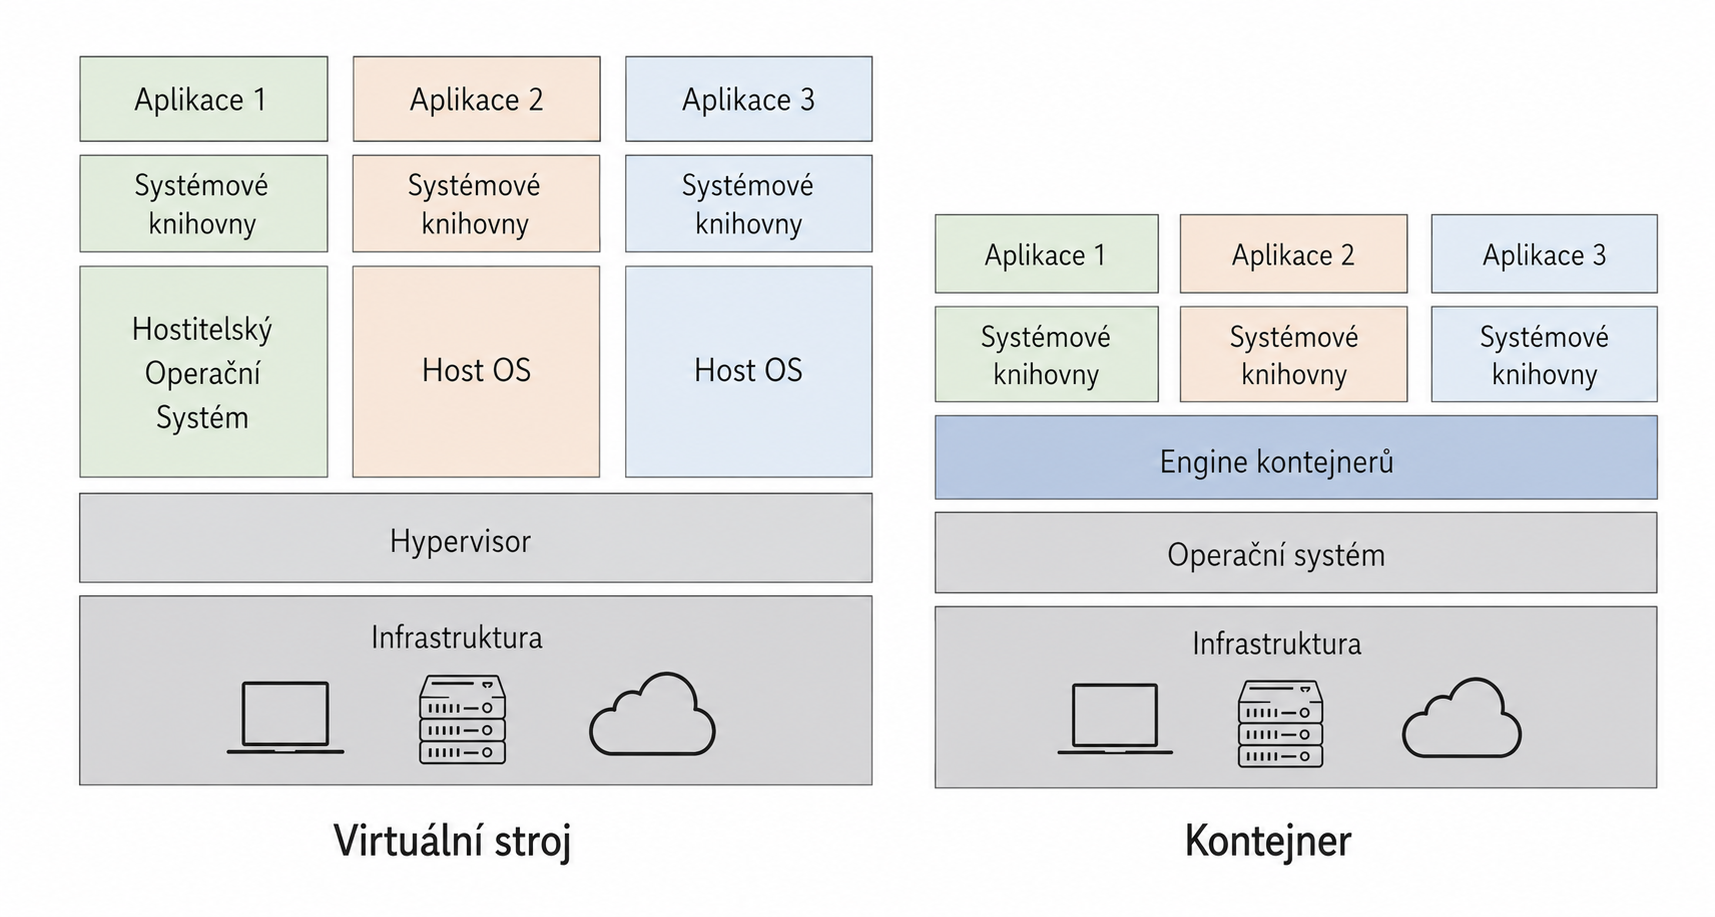
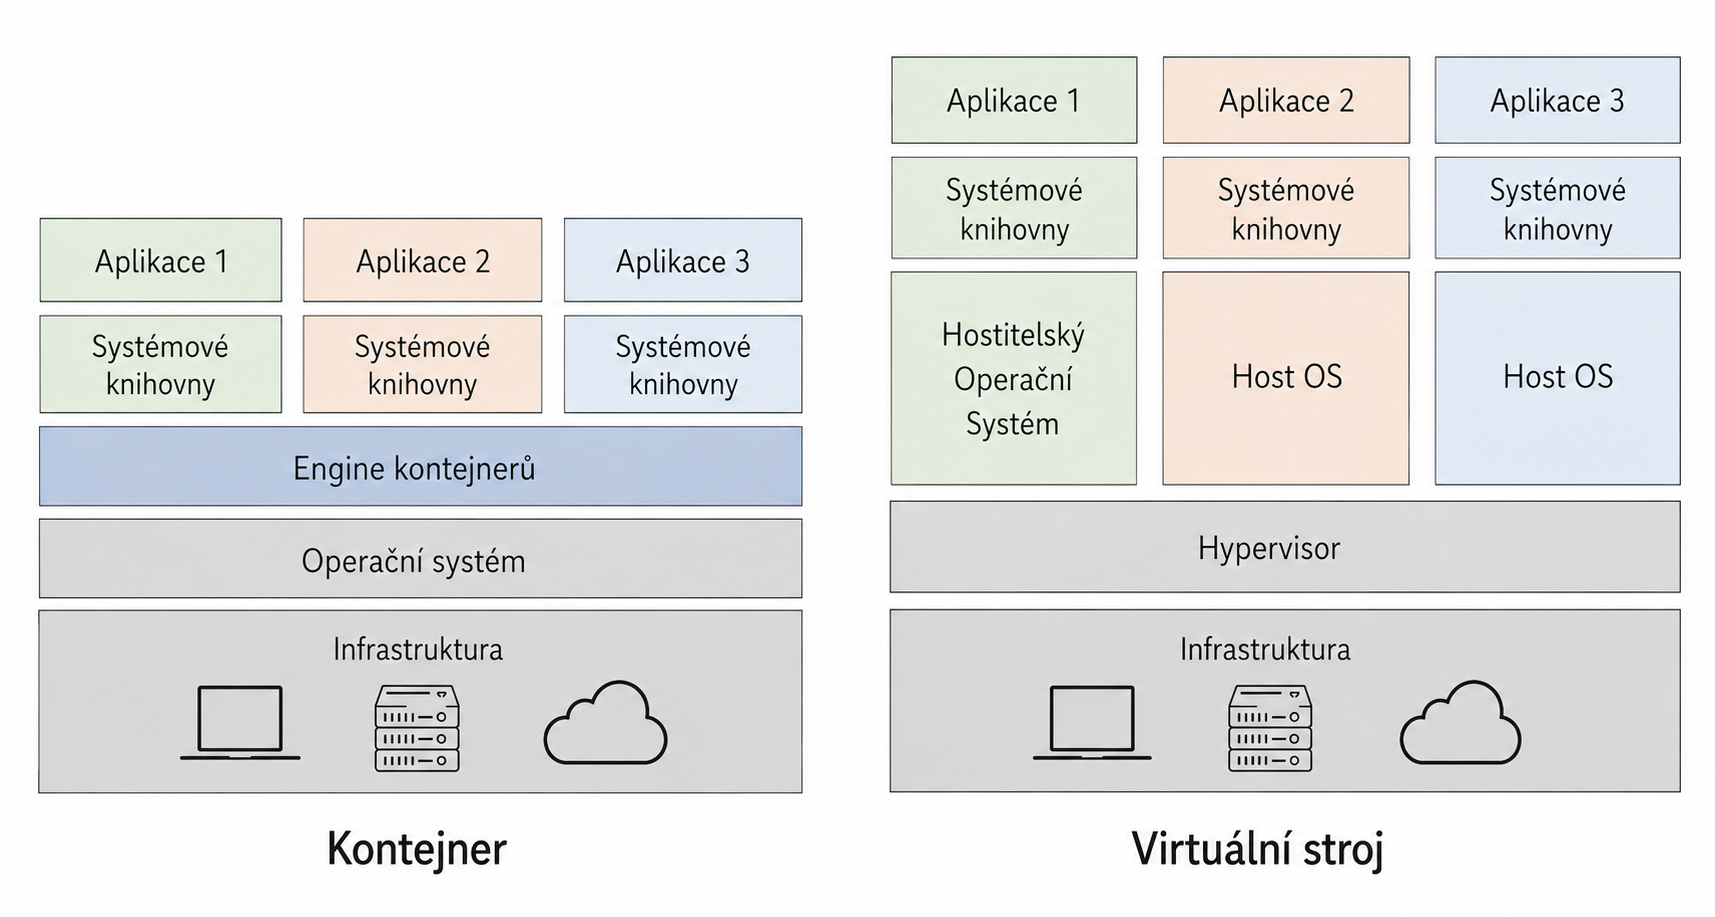
posledni kontrola

diff --git a/Thesis/chapters/vysledky_vyzkumu_a_diskuse.tex b/Thesis/chapters/vysledky_vyzkumu_a_diskuse.tex
@@ -1,4 +1,4 @@
-\chapter{Výsledky výzkumu a~diskuse}
+\chapter{Výsledky výzkumu a~diskuse}\label{vysledky}
 Tato kapitola prezentuje výsledky provedeného experimentálního vyhodnocení a~následně je interpretuje z~hlediska praktické použitelnosti jednotlivých databázových systémů. 
 
 Nejprve je popsán způsob zpracování a~agregace naměřených hodnot, poté jsou diskutovány výsledky výkonnostních testů, licenční omezení a~možnosti škálování jednotlivých řešení.
@@ -32,18 +32,18 @@ získává 100 bodů a~nejsložitější 1 bod.
 \caption{Instalační a~konfigurační náročnost databázových systémů}
 \label{tab:install-complexity}
 
-\begin{tabular}{l>{}c@{}}
+\begin{tabular}{l>{}cc@{}}
 \toprule
-\textbf{DBMS} & \textbf{Ansible úlohy} \\
+\textbf{DBMS} & \textbf{Ansible úlohy} & \textbf{Normalizované skore} \\
 \midrule
-ClickHouse           & 9  \\
-MongoDB              & 11 \\
-QuestDB              & 11 \\
-InfluxDB 3           & 13 \\
-MariaDB              & 22 \\
-MariaDB ColumnStore  & 22 \\
-TimescaleDB          & 28 \\
-Apache IoTDB         & 36 \\
+ClickHouse           & \best{9} & \best{100.00} \\
+MongoDB              & 11 & 92.67\\
+QuestDB              & 11 & 92.67\\
+InfluxDB 3           & 13 & 85.33\\
+MariaDB              & 22 & 52.33\\
+MariaDB ColumnStore  & 22 & 52.33\\
+TimescaleDB          & 28 & 30.33\\
+Apache IoTDB         & \worst{36} & \worst{1.00} \\
 \bottomrule
 \end{tabular}
 \end{table}
@@ -110,9 +110,9 @@ TimescaleDB & 71.71 & 57.57 & 71.71 & 71.71 & 68.17 \\
 InfluxDB 3 & 29.29 & \best{100.00} & 85.86 & 43.43 & 64.64 \\
 QuestDB & 43.43 & 43.43 & 57.57 & 85.86 & 57.57 \\
 MariaDB ColumnStore & 85.86 & 29.29 & 29.29 & 57.57 & 50.50 \\
-Apache IoTDB & 1.00 & 71.71 & 43.43 & 29.29 & 36.36 \\
+Apache IoTDB & \worst{1.00} & 71.71 & 43.43 & 29.29 & 36.36 \\
 MariaDB & 57.57 & 15.14 & 15.14 & 15.14 & 25.75 \\
-MongoDB & 15.14 & 1.00 & 1.00 & 1.00 & 4.54 \\
+MongoDB & 15.14 & \worst{1.00} & \worst{1.00} & \worst{1.00} & \worst{4.54} \\
 \bottomrule
 \end{tabular}
 \end{table}
@@ -127,7 +127,7 @@ Zajímavé je extrémní propadnutí MongoDB, které ve všech testech kromě
     \centering
     \includegraphics[width=0.7\textwidth]{images/small_aggregate.png}
     \caption{Medián doby trvání dotazu \texttt{aggregate} na profilu 
-             \texttt{small}.}
+             \texttt{small} (zdroj: Vlastní zpracování)}
     \label{fig:small_aggregate}
 \end{figure}
 
@@ -141,7 +141,7 @@ CPU a~paměti MongoDB na samotném začátku testu \texttt{aggregate}.
 \begin{figure}[H]
     \centering
     \includegraphics[width=0.9\textwidth]{images/mongodb_small_aggregate.png}
-    \caption{Začátek měření CPU a~RAM pro test \texttt{aggregate} u~MongoDB.}
+    \caption{Měření CPU a~RAM pro test \texttt{aggregate} u~MongoDB (zdroj: Vlastní zpracování)}
     \label{fig:mongodb_small_aggregate}
 \end{figure}
 
@@ -170,12 +170,12 @@ Následující tabulka prezentuje naměřenou propustnost při kontinuálním vk
 \midrule
 ClickHouse & 9634 & 9984 & \best{11225} & \best{14022} & \best{14034} & \best{13302} & \best{13887} & \best{13152} & \best{10517} & \best{\textbf{12195}} \\
 TimescaleDB & \best{11177} & \best{10969} & 10802 & 11452 & 11644 & 11472 & 11442 & 11785 & 9741 & \textbf{11165} \\
-MariaDB & 10016 & 9920 & 9764 & 9851 & 9993 & 9420 & 9765 & 9591 & -- & \textbf{8702} \\
+MariaDB & 10016 & 9920 & 9764 & 9851 & 9993 & 9420 & 9765 & 9591 & \worst{--} & \textbf{8702} \\
 MongoDB & 8409 & 8161 & 8033 & 9015 & 8684 & 8299 & 8571 & 8543 & 7550 & \textbf{8363} \\
 Apache IoTDB & 6343 & 5843 & 5535 & 8854 & 8031 & 7936 & 9155 & 7896 & 5718 & \textbf{7257} \\
-InfluxDB 3 & 6856 & 6816 & 6723 & 6891 & 6835 & 6897 & 6757 & 6656 & 5591 & \textbf{6669} \\
-QuestDB & 5925 & 5918 & 5847 & 7093 & 6548 & 5941 & 7310 & 5899 & 4423 & \textbf{6100} \\
-MariaDB ColumnStore & 1100 & 1062 & 1030 & 3277 & 3131 & 2764 & 7415 & 5744 & -- & \textbf{3190} \\
+InfluxDB 3 & 6856 & 6816 & 6723 & 6891 & 6835 & 6897 & \worst{6757} & 6656 & 5591 & \textbf{6669} \\
+QuestDB & 5925 & 5918 & 5847 & 7093 & 6548 & 5941 & 7310 & 5899 &  4423 & \textbf{6100} \\
+MariaDB ColumnStore & \worst{1100} & \worst{1062} & \worst{1030} & \worst{3277} & \worst{3131} & \worst{2764} & 7415 & \worst{5744} & \worst{--} & \worst{\textbf{3190}} \\
 \bottomrule
 \end{tabular}}
 \end{table}
@@ -209,9 +209,9 @@ TimescaleDB & 71.71 & 43.43 & 71.71 & 71.71 & \textbf{64.64} \\
 InfluxDB 3 & 29.29 & \best{100.00} & 85.86 & 43.43 & \textbf{64.64} \\
 QuestDB & 43.43 & 57.57 & 43.43 & 85.86 & \textbf{57.57} \\
 MariaDB ColumnStore & 85.86 & 29.29 & 29.29 & 57.57 & \textbf{50.50} \\
-Apache IoTDB & 1.00 & 71.71 & 57.57 & 29.29 & \textbf{39.89} \\
+Apache IoTDB & \worst{1.00} & 71.71 & 57.57 & 29.29 & \textbf{39.89} \\
 MariaDB & 57.57 & 15.14 & 15.14 & 15.14 & \textbf{25.75} \\
-MongoDB & 15.14 & 1.00 & 1.00 & 1.00 & \textbf{4.54} \\
+MongoDB & 15.14 & \worst{1.00} & \worst{1.00} & \worst{1.00} & \worst{\textbf{4.54}} \\
 \bottomrule
 \end{tabular}
 \end{table}
@@ -226,7 +226,7 @@ Je 3$\times$ pomalejší než druhý nejhorší systém v~tomto typu testu, Mong
     \centering
     \includegraphics[width=0.9\textwidth]{images/medium_insert.png}
     \caption{Medián doby trvání dotazu \texttt{insert} na profilu 
-             \texttt{medium}.}
+             \texttt{medium} (zdroj: Vlastní zpracování)}
     \label{fig:medium_insert}
 \end{figure}
 
@@ -244,7 +244,7 @@ Zelená křivka reprezentuje vytížení procesoru, žlutá využití operační
     \centering
     \includegraphics[width=1\textwidth]{images/iotdb-medium-cpu.png}
     \caption{Vytížení CPU a~paměti Apache IoTDB během testu 
-             \texttt{insert} na profilu \texttt{medium}.}
+             \texttt{insert} na profilu \texttt{medium} (zdroj: Vlastní zpracování)}
     \label{fig:iotdb-medium-cpu}
 \end{figure}
 
@@ -280,7 +280,7 @@ MongoDB & 16187 & 15809 & 15596 & 17284 & 16972 & 16627 & 16888 & 16569 & 16362 
 Apache IoTDB & 13513 & 12267 & 11785 & 18031 & 17280 & 16084 & 18164 & 17770 & 15494 & \textbf{15599} \\
 QuestDB & 11706 & 11972 & 11770 & 14805 & 14666 & 14158 & 16285 & 15450 & 14577 & \textbf{13932} \\
 InfluxDB 3 & 13066 & 12899 & 13070 & 13243 & 12942 & 13090 & 12852 & 12493 & 12828 & \textbf{12943} \\
-MariaDB ColumnStore & 1210 & 1288 & 1174 & 3613 & 3588 & 3423 & 10435 & 9414 & 8163 & \textbf{4701} \\
+MariaDB ColumnStore & \worst{1210} & \worst{1288} & \worst{1174} & \worst{3613} & \worst{3588} & \worst{3423} & \worst{10435} & \worst{9414} & \worst{8163} & \worst{\textbf{4701}} \\
 \bottomrule
 \end{tabular}}
 \end{table}
@@ -311,9 +311,9 @@ QuestDB & 43.43 & 57.57 & 57.57 & 85.86 & \textbf{61.11} \\
 InfluxDB 3 & 29.29 & \best{100.00} & 85.86 & 29.29 & \textbf{61.11} \\
 TimescaleDB & 71.71 & 43.43 & 43.43 & 71.71 & \textbf{57.57} \\
 MariaDB ColumnStore & 85.86 & 29.29 & 29.29 & 57.57 & \textbf{50.50} \\
-Apache IoTDB & 1.00 & 71.71 & 71.71 & 43.43 & \textbf{46.96} \\
+Apache IoTDB & \worst{1.00} & 71.71 & 71.71 & 43.43 & \textbf{46.96} \\
 MariaDB & 57.57 & 15.14 & 15.14 & 15.14 & \textbf{25.75} \\
-MongoDB & 15.14 & 1.00 & 1.00 & 1.00 & \textbf{4.54} \\
+MongoDB & 15.14 & \worst{1.00} & \worst{1.00} & \worst{1.00} & \worst{\textbf{4.54}} \\
 \bottomrule
 \end{tabular}
 \end{table}
@@ -348,7 +348,7 @@ Apache IoTDB & 17597 & 27147 & 25885 & 21346 & 34807 & 33635 & 21776 & 36187 & 3
 MongoDB & 16856 & 30901 & 30401 & 17849 & 31529 & 31780 & 17467 & 31090 & 31254 & \textbf{26570} \\
 QuestDB & 22258 & 27852 & 27150 & 21400 & 29497 & 28972 & 19504 & 31296 & 30519 & \textbf{26494} \\
 InfluxDB 3 & 13617 & 24324 & 24248 & 13454 & 24479 & 24319 & 13257 & 23968 & 23681 & \textbf{20594} \\
-MariaDB ColumnStore & 1329 & 1372 & 1333 & 3626 & 3619 & 3624 & 11789 & 11844 & 10611 & \textbf{5461} \\
+MariaDB ColumnStore & \worst{1329} & \worst{1372} & \worst{1333} & \worst{3626} & \worst{3619} & \worst{3624} & \worst{11789} & \worst{11844} & \worst{10611} & \worst{\textbf{5461}} \\
 \bottomrule
 \end{tabular}}
 \end{table}
@@ -428,7 +428,7 @@ InfluxDB 3           & 21400  & 32850  & 32750  & 0,7$\times$ \\
 QuestDB              & 12760  & 14060  & 14250  & 0,9$\times$ \\
 MariaDB              & 6975   & 9100   & 9200   & 0,8$\times$ \\
 MariaDB ColumnStore  & 5370   & 3610   & 2630   & \best{2,0$\times$} \\
-Apache IoTDB         & 108210 & 177830 & 182090 & 0,6$\times$ \\
+Apache IoTDB         & 108210 & 177830 & 182090 & \worst{0,6$\times$} \\
 MongoDB              & 71940  & 56600  & 43320  & 1,7$\times$ \\
 \bottomrule
 \end{tabular}}
@@ -450,7 +450,7 @@ TimescaleDB          & 48,4  & 50,0  & 50,0  & 1,0$\times$ \\
 InfluxDB 3           & 29,3  & 20,0  & 20,0  & 1,5$\times$ \\
 QuestDB              & 60,0  & 50,0  & 50,0  & 1,2$\times$ \\
 MariaDB              & 390,0 & 240,0 & 240,0 & \best{1,6$\times$} \\
-MariaDB ColumnStore  & 106,9 & 130,0 & 140,0 & 0,8$\times$ \\
+MariaDB ColumnStore  & 106,9 & 130,0 & 140,0 & \worst{0,8$\times$} \\
 Apache IoTDB         & 44,0  & 43,0  & 40,0  & 1,1$\times$ \\
 MongoDB              & 991,3 & 950,0 & 910,0 & 1,1$\times$ \\
 \bottomrule
@@ -473,7 +473,7 @@ TimescaleDB          & 48,6  & 50,0  & 50,0  & 1,0$\times$ \\
 InfluxDB 3           & 48,4  & 40,0  & 40,0  & 1,2$\times$ \\
 QuestDB              & 58,6  & 60,0  & 50,0  & 1,2$\times$ \\
 MariaDB              & 413,8 & 270,0 & 270,0 & \best{1,5$\times$} \\
-MariaDB ColumnStore  & 78,5  & 90,0  & 90,0  & 0,9$\times$ \\
+MariaDB ColumnStore  & 78,5  & 90,0  & 90,0  & \worst{0,9$\times$} \\
 Apache IoTDB         & 60,2  & 52,0  & 44,0  & 1,4$\times$ \\
 MongoDB              & 869,0 & 880,0 & 820,0 & 1,1$\times$ \\
 \bottomrule
@@ -496,7 +496,7 @@ TimescaleDB          & 44,0  & 50,0  & 50,0  & 0,9$\times$ \\
 InfluxDB 3           & 156,0 & 130,0 & 140,0 & 1,1$\times$ \\
 QuestDB              & 38,8  & 40,0  & 40,0  & 1,0$\times$ \\
 MariaDB              & 411,8 & 270,0 & 280,0 & \best{1,5$\times$} \\
-MariaDB ColumnStore  & 77,0  & 90,0  & 100,0 & 0,8$\times$ \\
+MariaDB ColumnStore  & 77,0  & 90,0  & 100,0 & \worst{0,8$\times$} \\
 Apache IoTDB         & 200,3 & 165,0 & 139,0 & 1,4$\times$ \\
 MongoDB              & 1033,7& 930,0 & 930,0 & 1,1$\times$ \\
 \bottomrule
@@ -554,7 +554,7 @@ TimescaleDB          & +102,7\,\% & +65,8\,\%  & +236,0\,\% \\
 InfluxDB 3           & +94,1\,\%  & +59,1\,\%  & +208,8\,\% \\
 QuestDB              & +128,4\,\% & +90,2\,\%  & \best{+334,3\,\%} \\
 MariaDB              & +113,6\,\% & +58,6\,\%  & +238,8\,\% \\
-MariaDB ColumnStore  & +47,4\,\%  & +16,2\,\%  & +71,2\,\%  \\
+MariaDB ColumnStore  & +47,4\,\%  & +16,2\,\%  & \worst{+71,2\,\%}  \\
 Apache IoTDB         & +115,0\,\% & +80,4\,\%  & +287,7\,\% \\
 MongoDB              & +97,0\,\%  & +61,3\,\%  & +217,7\,\% \\
 \bottomrule
@@ -598,9 +598,9 @@ TimescaleDB          & 63,46 & 23\,772 & 30,33 & Apache 2.0 & pouze čtecí repl
 InfluxDB 3           & 63,46 & 13\,402 & 85,33 & Apache 2.0 / MIT & pouze Enterprise \\
 QuestDB              & 58,75 & 15\,509 & 92,67 & Apache 2.0 (OSS) & pouze Enterprise \\
 MariaDB              & 25,75 & 18\,924 & 52,33 & GPLv2 & replikace / Galera Cluster \\
-MariaDB ColumnStore  & 50,50 & 4\,451 & 52,33 & GPLv2 & nativní \\
-Apache IoTDB         & 41,07 & 16\,997 & 1,00 & Apache 2.0 & nativní \\
-MongoDB              & 4,54 & 17\,137 & 92,67 & SSPL & nativní \\
+MariaDB ColumnStore  & 50,50 & \worst{4\,451} & 52,33 & GPLv2 & nativní \\
+Apache IoTDB         & 41,07 & 16\,997 & \worst{1,00} & Apache 2.0 & nativní \\
+MongoDB              & \worst{4,54} & 17\,137 & 92,67 & SSPL & nativní \\
 \bottomrule
 \end{tabular}}
 \end{table}

diff --git a/Thesis/chapters/prakticka_cast.tex b/Thesis/chapters/prakticka_cast.tex
@@ -1,4 +1,4 @@
-\chapter{Praktická část}
+\chapter{Praktická část}\label{practical}
 
 \section{Popis dat}\label{sec:popisdat}
 
@@ -6,8 +6,8 @@ Poskytovatelem dat je Datové centrum Ústeckého kraje (DCÚK), které spravuje
 Jedná se o~záznamy ze systému pro sledování pohybu vozidel správy a~údržby silnic. 
 
 Samotný dataset má velikost přibližně 650 MB a~obsahuje zhruba 600 tisíc záznamů. Data jsou uložena v~tabulkové struktuře ve formátu CSV.
-Obsahuje celkem 54 atributů různých datových typů. Převládají celočíselné a~desetinné hodnoty, které reprezentují měřené nebo stavové veličiny, dále textové atributy sloužící především jako identifikátory a~časové údaje. 
-Struktura dat je převážně plochá, přičemž každý řádek představuje jeden záznam o~stavu vozidla v~konkrétním časovém okamžiku.
+Obsahuje celkem 54 atributů různých datových typů. Převládají celočíselné (int) a~desetinné čísla (float), které reprezentují měřené nebo stavové veličiny, dále textové atributy (text) sloužící především jako identifikátory a~časové údaje (timestamp). 
+Struktura dat je plochá, přičemž každý řádek představuje jeden záznam o~stavu vozidla v~konkrétním časovém okamžiku.
 
 Tyto informace umožňují analýzu pohybu vozidel v~čase a~prostoru, například pro vyhodnocení efektivity údržby silniční sítě nebo sledování tras jednotlivých vozidel.
 
@@ -113,7 +113,7 @@ Je optimalizována pro vysokou rychlost zápisu a~práci s~časovými intervaly,
 \cite{influxdbdocs}
 
 InfluxDB nyní využívá hlavně jazyk SQL, v~minulosti ovšem ale využíval vlastní dotazovací jazyky InfluxQL a~následně Flux. V~nejnovějších verzích podpora pro Flux už není.
-Kromě toho je dostupný také HTTP API\footnote{\textit{API} - Application Programming Interface, rozhraní, přes které spolu komunikují různé aplikace.} přístup. 
+Kromě toho je dostupný také HTTP API přístup. 
 \cite{influxdbdocs}
 
 Nejnovější verze InfluxDB 3 je postavena na tzv. FDAP stacku\footnote{\textit{FDAP} - Flight, DataFusion, Arrow, Parquet, sada open-source komponent Apache Software Foundation, které tvoří jádro systému.}, což umožňuje zaměřit vývoj na časově specifické funkce místo reinplementace nízkoúrovňových databázových komponent. \cite{influxdbdocs}
@@ -237,7 +237,7 @@ QuestDB podporuje standardní SQL rozšířený o~časové funkce.
 Pro vysokorychlostní ingestování je k~dispozici protokol InfluxDB Line Protocol, zatímco pro dotazování implementuje PostgreSQL wire protocol, což umožňuje připojení standardními PostgreSQL klienty bez nutnosti speciálních ovladačů. 
 K~dispozici je také REST API a~vestavěná webová konzole.
 
-QuestDB je dostupný jako open-source projekt pod licencí Apache License 2.0 a dále i jako QuestDB Enterprise. Ta disponuje funkcemi, které přidávjí možnost replikace dat, automatického zálohování, horizontální škálování, a podporu úložiště nad objektovým storage (např. S3, Azure Blob Storage nebo GCS).
+QuestDB je dostupný jako open-source projekt pod licencí Apache License 2.0 a dále i jako QuestDB Enterprise. Ta disponuje funkcemi, které přidávají možnost replikace dat, automatického zálohování, horizontální škálování, a podporu úložiště nad objektovým storage (např. S3, Azure Blob Storage nebo GCS).
 
 \subsection{TimescaleDB}
 
@@ -262,8 +262,8 @@ Dále existuje i TimescaleDB Enterprise, která oproti open-source edici poskytu
 \cite{timescaledbdocs}
 
 \section{Návrh testovacího scénáře}
-V~následujících odstavcích popíši~realizace a~návrhy testovacího prostředí, které jsem využil pro porovnání jednotlivých databázových systémů.
-V~mém prostředí chci zadefinovat co nejbližší jednotné prostředí, jako jsou například stejná data a~stejné HW prostředky.
+Následují odstavce popisují~realizace a~návrh testovacího prostředí, které bylo využito pro porovnání jednotlivých databázových systémů.
+V~rámci testovacího prostředí je definováno co nejvíce sjednocené prostředí, jako například stejná data a~stejné HW prostředky.
 To budu realizovat pomocí orchestrace založené na Ansible. 
 Monitoring běhu jednotlivých kontejnerů je založen na systému Prometheus a~sesbíraná HW data budou vizualizována pomocí nástroje Grafana.
 
@@ -703,7 +703,7 @@ Bez ohledu na typ testu je posledním krokem každého běhu role \texttt{common
     \item a~zapíše odpovídající anotaci do Grafany (\texttt{/api/annotations}), čímž se testovací okno zpětně promítne do grafů systémových metrik sbíraných Prometheem.
 \end{itemize}
 
-Tímto způsobem vznikne za všechny databáze a~všechny opakované běhy jednotná sada pěti NDJSON(Newline Delimited JSON) souborů (\texttt{insert}, \texttt{single\_point}, \texttt{condition}, \texttt{aggregate}, \texttt{live\_insert}), která slouží jako vstupní data pro následnou analýzu výsledků.
+Tímto způsobem vznikne za všechny databáze a~všechny opakované běhy jednotná sada pěti NDJSON (Newline Delimited JSON) souborů (\texttt{insert}, \texttt{single\_point}, \texttt{condition}, \texttt{aggregate}, \texttt{live\_insert}), která slouží jako vstupní data pro následnou analýzu výsledků.
 
 Ze všech testů se sbírají metriky dvojím způsobem:
 \begin{itemize}

diff --git a/Thesis/chapters/zaver.tex b/Thesis/chapters/zaver.tex
@@ -1,14 +1,14 @@
 \chapter{Závěr}
 Cílem této bakalářské práce bylo porovnat vybrané databázové systémy z hlediska jejich vhodnosti pro ukládání a zpracování časových řad, a to jak z teoretického, tak z praktického hlediska, a na základě tohoto porovnání formulovat doporučení pro výběr vhodného systému.
 
-V teoretické části práce byla nejprve charakterizována podstata časových řad a přístupy k jejich ukládání, dále byly představeny základní typy databázových systémů (relační, dokumentové, sloupcové, párů klíč-hodnota a grafové) společně s jejich vnitřními datovými strukturami, zejména B-Tree a LSM stromem. 
+V teoretické části (viz \ref{theoretical}) práce byla nejprve charakterizována podstata časových řad a přístupy k jejich ukládání, dále byly představeny základní typy databázových systémů (relační, dokumentové, sloupcové, párů klíč-hodnota a grafové) společně s jejich vnitřními datovými strukturami, zejména B-Tree a LSM stromem. 
 Následně byly popsány dostupné nástroje a technologie použité pro přípravu testovacího prostředí: virtualizační a kontejnerizační platformy, orchestrační nástroje pro automatizaci konfigurace a monitorovací systémy.
 
-V praktické části bylo vybráno osm databázových systémů: Apache IoTDB, ClickHouse, InfluxDB 3, MariaDB, MariaDB ColumnStore, MongoDB, QuestDB a TimescaleDB. Tyto databázové systémy reprezentují různé přístupy k ukládání dat. 
+V praktické části (viz \ref{practical}) bylo vybráno osm databázových systémů: Apache IoTDB, ClickHouse, \mbox{InfluxDB 3}, MariaDB, MariaDB ColumnStore, MongoDB, QuestDB a TimescaleDB. Tyto databázové systémy reprezentují různé přístupy k ukládání dat. 
 Pro jejich porovnání bylo pomocí nástroje Ansible vytvořeno automatizované a reprodukovatelné testovací prostředí, ve kterém byly systémy nasazeny za srovnatelných podmínek na reálném datasetu poskytnutém Datovým centrem Ústeckého kraje. 
 Systémy byly otestovány na třech hardwarových profilech sadou testů zaměřených na vkládání, bodové čtení, filtrování podle podmínky, agregaci a kontinuální (živý) zápis dat, přičemž průběh testů byl souběžně monitorován z hlediska využití CPU, paměti a diskových operací.
 
-Z výsledků vyplynulo, že nejlépe si ve výkonnostních testech vedl ClickHouse, který dosáhl nejlepších nebo téměř nejlepších výsledků napříč všemi profily i typy dotazů, a to při současně nejjednodušší instalaci ze všech testovaných systémů, permisivní licenci Apache 2.0 a nativní podpoře horizontálního škálování. 
+Z výsledků vyplynulo (viz \ref{vysledky}), že nejlépe si ve výkonnostních testech vedl ClickHouse, který dosáhl nejlepších nebo téměř nejlepších výsledků napříč všemi profily i typy dotazů, a to při současně nejjednodušší instalaci ze všech testovaných systémů, permisivní licenci Apache 2.0 a nativní podpoře horizontálního škálování. 
 Jako nejsilnější alternativu lze označit TimescaleDB, který na výkonnějším hardwarovém profilu při kontinuálním zápisu ClickHouse dokonce mírně předčil a jako jediný ze všech systémů vykazoval u čtecích operací minimální citlivost na navýšení hardwarových prostředků. 
 Naopak nejhorších výsledků v klasických testech dosahovalo MongoDB a nejnáročnější na instalaci a konfiguraci byla Apache IoTDB.
 

diff --git a/Thesis/chapters/abstrakt.tex b/Thesis/chapters/abstrakt.tex
@@ -5,7 +5,7 @@
 Práce se zabývá porovnáním databázových systémů vhodných pro ukládání a~zpracování časových řad. 
 Teoretická část charakterizuje časové řady, popisuje přístupy k~jejich ukládání a~shrnuje rozdíly mezi relačními, dokumentovými, sloupcovými a~specializovanými time-series databázemi.
 Praktická část porovnává osm systémů (ClickHouse, TimescaleDB, InfluxDB 3, QuestDB, Apache IoTDB, MariaDB, MariaDB ColumnStore a~MongoDB) na reálném datasetu poskytnutém Datovým centrem Ústeckého kraje. 
-Pro účely testování bylo pomocí nástroje Ansible vytvořeno automatizované a~reprodukovatelné testovací prostředí s~monitoringem přes Prometheus a~Grafanu. 
+Pro účely testování bylo pomocí nástroje Ansible vytvořeno automatizované a~reprodukovatelné testovací prostředí s~monitoringem přes softwarové nástroje Prometheus a~Grafanu. 
 Systémy byly vyhodnoceny z~hlediska výkonnosti při~zápisu, čtení a~agregaci dat, složitosti instalace a~konfigurace, licenčních podmínek a~možností škálování, na jejichž základě práce formuluje doporučení pro výběr vhodného databázového systému.
 
 \textbf{Klíčová slova:} databázové systémy, časové řady, benchmarking, automatizace testování
@@ -20,7 +20,7 @@ Systémy byly vyhodnoceny z~hlediska výkonnosti při~zápisu, čtení a~agregac
 This thesis compares database systems suitable for storing and processing time series data.
 \mbox{The~theoretical} part characterizes time series, describes common storage approaches, and summarizes the differences between relational, document, columnar, and specialized time-series databases.
 The~practical part compares eight systems (ClickHouse, TimescaleDB, InfluxDB 3, QuestDB, Apache IoTDB, MariaDB, MariaDB ColumnStore, and MongoDB) using a real-world dataset provided by the Datové Centrum Ústeckého Kraje.
-An automated and reproducible testing environment was built with Ansible, with monitoring handled by Prometheus and Grafana. 
+An automated and reproducible testing environment was built with Ansible, with monitoring handled by software tools Prometheus and Grafana. 
 The systems were evaluated in terms of write, read, and aggregation performance, installation and configuration complexity, licensing conditions, and scaling options, forming the basis for a recommendation on selecting a suitable database system.
 
 \textbf{Keywords:} database systems, time series, benchmarking, test automation

diff --git a/Thesis/chapters/prilohy.tex b/Thesis/chapters/prilohy.tex
@@ -4,7 +4,7 @@ V~Ansible jsou pro definici konfigurace a~automatizačních úloh nejčastěji p
     \item \textbf{YAML} \\
     YAML (YAML Ain't Markup Language) je formát pro serializaci dat, který je navržen tak, aby byl snadno čitelný pro lidi a~zároveň snadno zpracovatelný počítači.
     \cite{yamldocs}
-    \begin{lstlisting}[language=YAML, caption={Ukázka YAML}, label={lst:yamlshowcase}, captionpos=b]
+    \begin{lstlisting}[language=YAML, caption={Ukázka stuktury YAML}, label={lst:yamlshowcase}, captionpos=b]
     general:
         name: TestApp
         version: 1.0
@@ -16,7 +16,7 @@ V~Ansible jsou pro definici konfigurace a~automatizačních úloh nejčastěji p
     \item \textbf{INI} \\
     INI je jednoduchý formát pro konfigurační soubory, který používá strukturu klíč-hodnota a~sekce pro organizaci nastavení.
         
-    \begin{lstlisting}[caption={Ukázka INI}, label={lst:inishowcase}, captionpos=b]
+    \begin{lstlisting}[caption={Ukázka struktury INI}, label={lst:inishowcase}, captionpos=b]
     [General]
     name=TestApp
     version=1.0

diff --git a/Thesis/ki-thesis.tex b/Thesis/ki-thesis.tex
@@ -142,7 +142,7 @@
 \newcommand{\rok}{\the\year}                
 \newcommand{\vedouci}{Ing. Roman Vaibar, Ph.D., MBA}         
 % zde VYPLŇTE jméno a příjmení vedoucího práce, včetně titulů
-\newcommand{\vedouciDAT}{Ing. Mgr. Romanovi Vaibarovi, Ph.D., MBA}
+\newcommand{\vedouciDAT}{Ing. Romanovi Vaibarovi, Ph.D., MBA}
 % zde VYPLŇTE jméno a příjmení vedoucího práce, včetně titulů ve třetím pádě
                                                            
 
@@ -164,8 +164,10 @@
 \newcommand{\UV}[1]{\quotedblbase#1\textquotedblleft}
 \newcommand\myworries[1]{\textcolor{red}{#1}}
 \newcommand{\best}[1]{\cellcolor{bestgreen}\textbf{#1}}
+\newcommand{\worst}[1]{\cellcolor{worstred}\textbf{#1}}
 
 \definecolor{bestgreen}{RGB}{198,239,206}
+\definecolor{worstred}{RGB}{255,199,206}
 \definecolor{avgblue}{RGB}{221,235,247}
 
 \usepackage{enumitem}